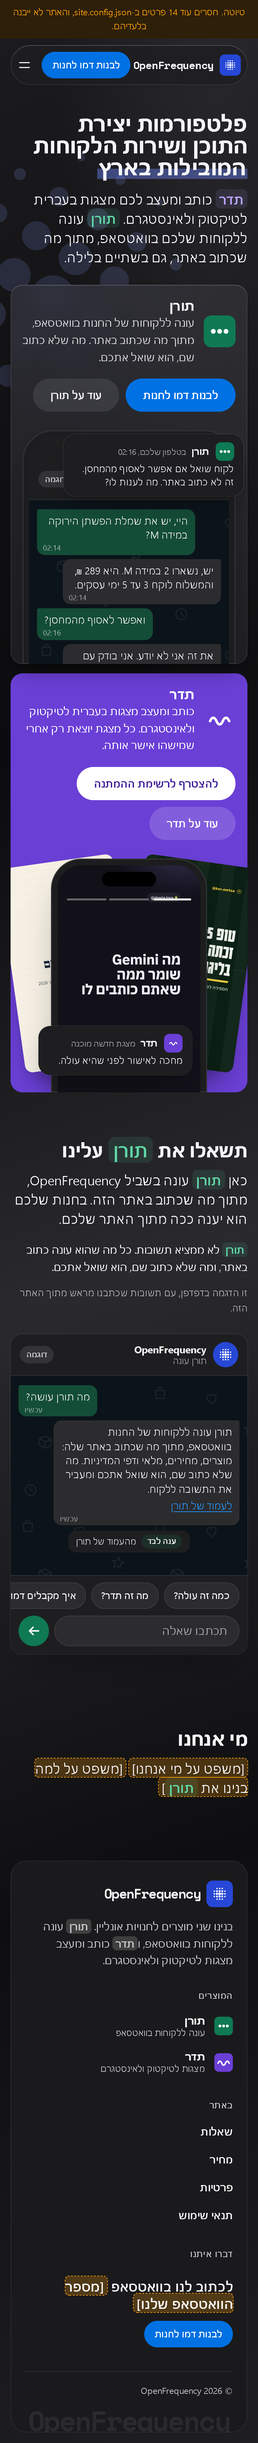
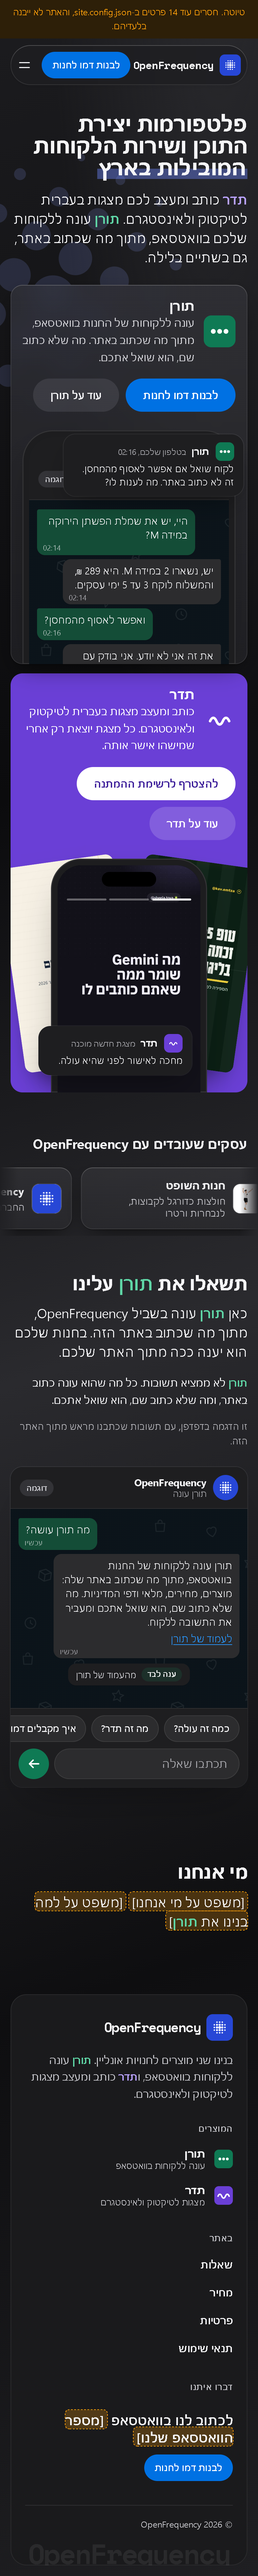
Businesses that work with OpenFrequency, as a moving strip under the doors; the product names lose their tint
Claude-Session: https://claude.ai/code/session_013ytyKksuwzF2xehLBuYDbT

Changed region(s): [[0.0, 0.0, 1.0, 0.9648], [0.2462, 0.9337, 0.4615, 0.9648]]

diff --git a/src/style.css b/src/style.css
@@ -243,15 +243,15 @@ p:last-child { margin-bottom: 0; }
 .mark.openfrequency { background: var(--of); }
 .mark.toran { background: var(--toran); }
 .mark.teder { background: var(--teder); }
-/* Toran and Teder inside a sentence, set as names (markNames in lib.mjs), so nobody reads them as the plain words */
-.pn { padding: 0 0.22em 0.04em; border-radius: 0.34em; font-weight: 600; white-space: nowrap; color: var(--pn); background: color-mix(in srgb, var(--pn) 11%, transparent); }
+/* Toran and Teder inside a sentence, set as names (markNames in lib.mjs), so nobody reads them as the plain words:
+   the product's colour and a heavier weight, nothing more. On Teder's violet the weight alone carries it. */
+.pn { font-weight: 600; color: var(--pn); }
 .pn.toran { --pn: var(--toran-name); }
 .pn.teder { --pn: var(--teder-name); }
-/* glued to its prefix letter: בתדר reads as one word */
-.pn.after { padding-inline-start: 0.08em; border-start-start-radius: 0.14em; border-end-start-radius: 0.14em; }
-/* in a heading the colour alone is enough */
-:is(h1, h2, h3) .pn { padding: 0; background: none; }
-.teder-door .pn, .teder-field .pn, .foot .pn { color: inherit; background: rgba(255, 255, 255, 0.16); }
+.teder-door .pn, .teder-field .pn { color: inherit; }
+/* the footer is dark in both themes, so it takes the dark theme's names */
+.foot .pn.toran { color: #5fd6a6; }
+.foot .pn.teder { color: #b9a2ff; }
 .mark.inline { display: inline-block; vertical-align: -0.18em; margin-inline-end: 0.3em; --s: 1.05em; }
 
 /* ------------------------------------------------------------ buttons and fields */
@@ -448,6 +448,29 @@ input:focus, textarea:focus { outline: none; border-color: var(--accent-fill); b
 @media (max-width: 899px) { .co-bg { top: -20px; left: -260px; opacity: 0.16; } .co-bg svg { width: 680px; } }
 @media (prefers-color-scheme: dark) { .co-bg { color: #8ea2ff; opacity: 0.22; } }
 @media (prefers-color-scheme: dark) and (max-width: 899px) { .co-bg { opacity: 0.16; } }
+/* Businesses that work with us: a strip under the doors that moves on its own (clients.mjs). Two identical lists move
+   by one list's width, so the loop has no seam; it stops under the pointer or on focus, and stands still for anyone
+   who asked for less motion, as a row they can scroll. */
+.clients-sec { padding-top: clamp(48px, 6vw, 80px); }
+.clients-sec h2 { font-size: var(--fs-lead); line-height: 1.25; }
+.clients { margin-top: 18px; overflow: hidden; direction: ltr; -webkit-mask-image: linear-gradient(90deg, transparent, #000 7%, #000 93%, transparent); mask-image: linear-gradient(90deg, transparent, #000 7%, #000 93%, transparent); }
+.clients-row { display: flex; width: max-content; animation: clients calc(var(--n) * 5s) linear infinite; }
+.clients:hover .clients-row, .clients:focus-within .clients-row { animation-play-state: paused; }
+@keyframes clients { to { transform: translateX(-50%); } }
+.clients-list { display: flex; gap: 14px; margin: 0; padding: 6px 7px 10px; list-style: none; }
+.client { direction: rtl; display: flex; align-items: center; gap: 12px; width: 290px; height: 100%; padding: 14px 16px; border-radius: var(--r); color: var(--ink); text-decoration: none; transition: transform 0.25s var(--ease-out); }
+@media (hover: hover) { .client:hover { transform: translateY(-2px); } }
+.client-logo { display: grid; place-items: center; width: 44px; height: 44px; flex: none; overflow: hidden; border-radius: 24%; background: #fff; box-shadow: 0 0 0 1px var(--edge); }
+.client-logo img { display: block; width: 100%; height: 100%; object-fit: contain; }
+.client-t { display: grid; gap: 2px; min-width: 0; }
+.client-t b { font-weight: 700; }
+.client-t small { color: var(--ink-2); font-size: 14px; line-height: 1.35; }
+@media (prefers-reduced-motion: reduce) {
+  .clients-row { animation: none; }
+  .clients { overflow-x: auto; -webkit-mask-image: none; mask-image: none; direction: rtl; }
+  .clients-row { padding-inline: var(--gut); }
+  .clients-list[aria-hidden], .clients-list li[aria-hidden] { display: none; }
+}
 .doors { display: grid; gap: 14px; margin-top: clamp(28px, 4vw, 44px); }
 @media (min-width: 900px) { .doors { grid-template-columns: 1fr 1fr; gap: 18px; } .co-hero { padding-top: 48px; } }
 .door { --pad: clamp(18px, 2.2vw, 28px); display: flex; flex-direction: column; gap: 20px; min-width: 0; overflow: hidden; padding: var(--pad) var(--pad) 0; border-radius: var(--r); }

diff --git a/DESIGN.md b/DESIGN.md
@@ -188,7 +188,7 @@ A hue-less silver and ink system with one action blue, three brand-mark colours,
 - **OK Green** (ok-green) is for success lines. **Warn** on **Warn Ground** is for form errors, "fixed" status and the draft banner.
 
 ### Product names
-Toran and Teder are Hebrew words, so in a sentence they are set as names: the product's colour, weight 600, on a light tint of that colour (`.pn`). The build does it (`markNames` in `src/lib.mjs`), so new copy needs nothing. In a heading only the colour stays. A name standing alone, the nav, buttons, links and the product fragments are left as they are.
+Toran and Teder are Hebrew words, so in a sentence they are set as names: the product's colour at weight 600 (`.pn`). The build does it (`markNames` in `src/lib.mjs`), so new copy needs nothing. A name standing alone, the nav, buttons, links and the product fragments are left as they are.
 
 ### Named Rules
 **The No Hue Wallpaper Rule.** The wallpaper and every tile are hue-less silver. Colour arrives only with the product's fragments, the brand marks, the action blue and the one violet field.
